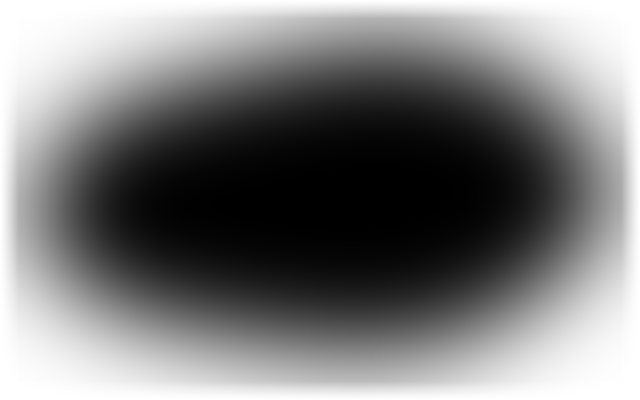
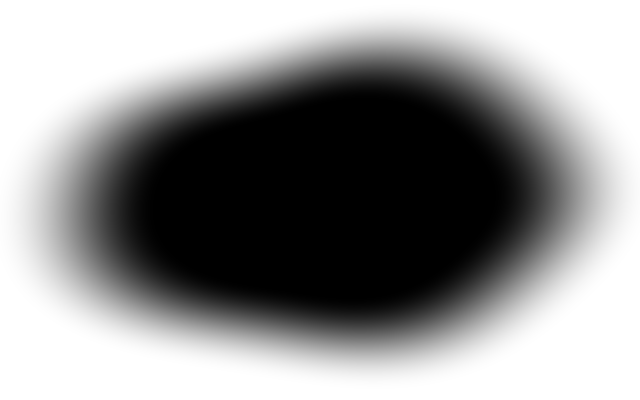
Updates post: much softer eased fade on videos, quieter glow

diff --git a/updates/updates.css b/updates/updates.css
@@ -97,7 +97,7 @@ a { color: inherit; text-decoration-color: var(--accent); text-decoration-thickn
 .video-label.with-demo { color: var(--accent); }
 .video-label.with-demo::before { background: var(--accent); }
 .film-wrap { position: relative; }
-.film-glow { position: absolute; inset: -4%; background: center / cover no-repeat; filter: blur(44px) brightness(2) saturate(1.2); opacity: .35; pointer-events: none; }
+.film-glow { position: absolute; inset: 6%; background: center / cover no-repeat; filter: blur(60px) brightness(1.4); opacity: .2; pointer-events: none; }
 .film { position: relative; isolation: isolate;
   -webkit-mask: url("film-mask-a.png") center / 100% 100% no-repeat;
   mask: url("film-mask-a.png") center / 100% 100% no-repeat; }
